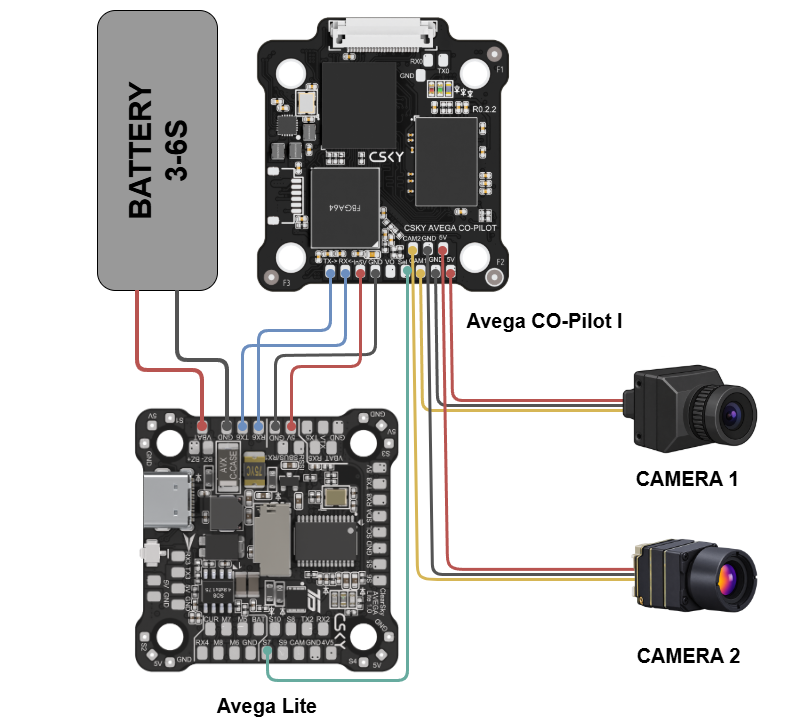
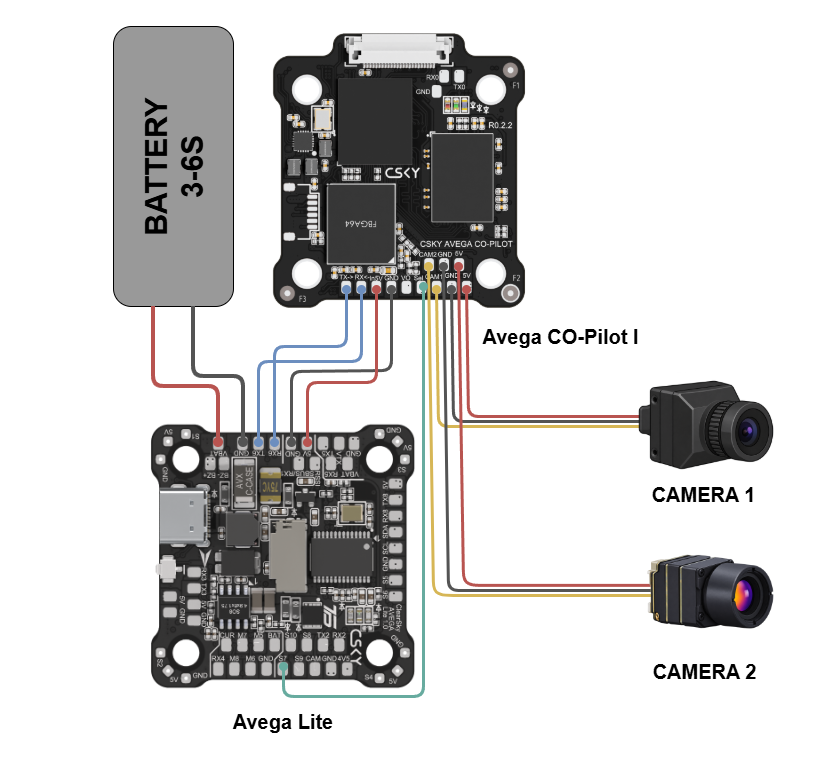
Update 5 files
- hardware/copilot-i/_index.md
   - hardware/copilot-i/skhema-podklyucheniya-platy.webp
   - hardware/copilot-i/copilot-i.webp
 - hardware/copilot-i/skhema-podklyucheniya-platy.md
   - hardware/copilot-i/skhema-podklyucheniya-platy.webp

Changed region(s): [[0.1202, 0.0, 0.9612, 1.0]]

diff --git a/hardware/copilot-i/_index.md b/hardware/copilot-i/_index.md
@@ -141,10 +141,10 @@ order: 10
 
 ## Пример схемы подключения
 
-![](./copilot-i.webp){width=799px height=726px}
+![](./copilot-i.webp){width=827px height=777px}
 
 ## Дополнительная информация
 
-- [Схема подключения плат](./skhema-podklyucheniya-platy.md)[ы](./skhema-podklyucheniya-platy.md)
+- [Схема подключения платы](./skhema-podklyucheniya-platy.md)
 - [Установка образа системы](./ustanovka-obraza-sistemy-v-emmc.md)
 - [Примеры программ](./primery-raboty-s-platoy-avega-co-pilot-i.md)

diff --git a/hardware/copilot-i/skhema-podklyucheniya-platy.md b/hardware/copilot-i/skhema-podklyucheniya-platy.md
@@ -3,4 +3,4 @@ title: "Схема работы с примером\_"
 order: 2
 ---
 
-![](./skhema-podklyucheniya-platy.webp){width=777px height=1288px}
+![](./skhema-podklyucheniya-platy.webp){width=785px height=1236px}
